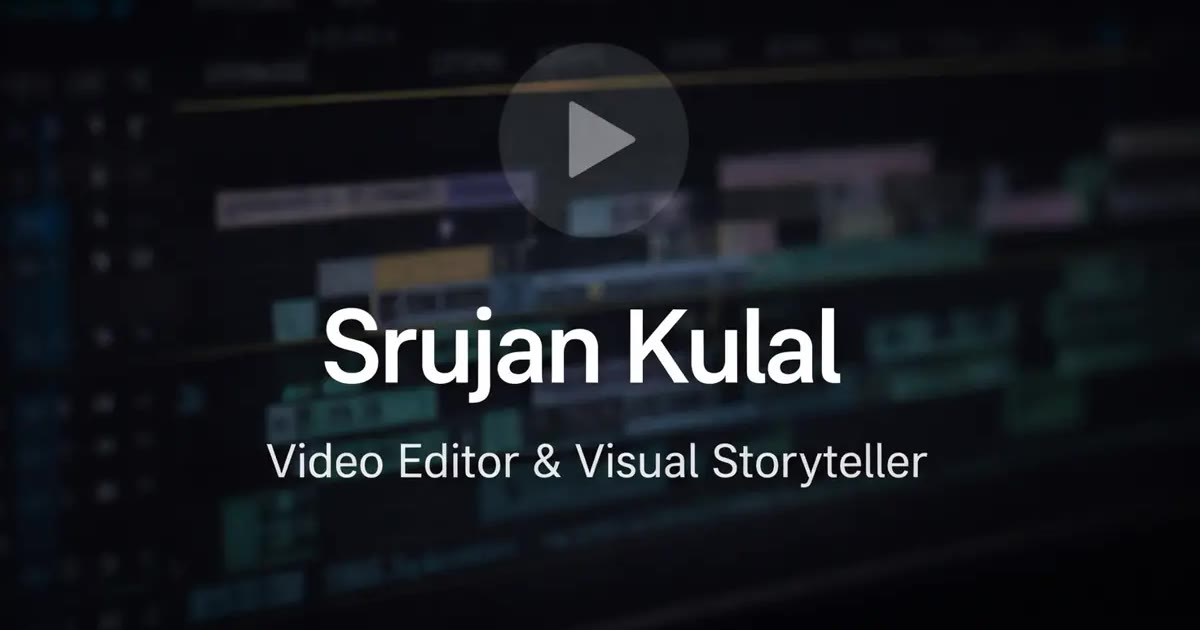
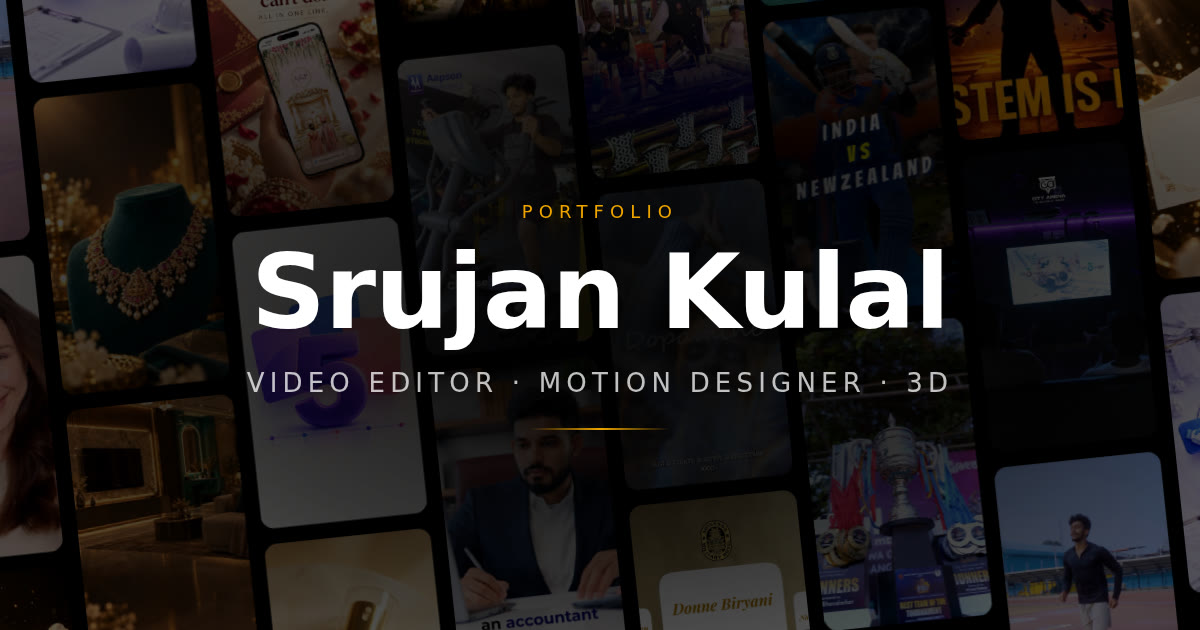
Refresh link-preview image with the new title
New 1200x630 preview in the same style as the hero: drifting portfolio
thumbnails behind the name, with "Video Editor · Motion Designer · 3D".
The image URL gets ?v=2 so WhatsApp, LinkedIn and others fetch the new
image instead of a cached copy.

Claude-Session: https://claude.ai/code/session_01HZXfU5NF8QpcKynUtTYvyP

diff --git a/index.html b/index.html
@@ -12,8 +12,8 @@
 <meta property="og:type" content="website" />
 <meta property="og:url" content="https://srujanportfolio.pixora24.com/" />
 
-<meta property="og:image" content="https://srujanportfolio.pixora24.com/assets/preview.jpg" />
-<meta property="og:image:secure_url" content="https://srujanportfolio.pixora24.com/assets/preview.jpg" />
+<meta property="og:image" content="https://srujanportfolio.pixora24.com/assets/preview.jpg?v=2" />
+<meta property="og:image:secure_url" content="https://srujanportfolio.pixora24.com/assets/preview.jpg?v=2" />
 <meta property="og:image:width" content="1200" />
 <meta property="og:image:height" content="630" />
 <meta property="og:image:type" content="image/jpeg" />
@@ -21,7 +21,7 @@
 <meta name="twitter:card" content="summary_large_image" />
 <meta name="twitter:title" content="Srujan Kulal — Video Editor &amp; Motion Designer" />
 <meta name="twitter:description" content="Ad edits, social media reels, motion graphics, 3D animation and cinematic highlights." />
-<meta name="twitter:image" content="https://srujanportfolio.pixora24.com/assets/preview.jpg" />
+<meta name="twitter:image" content="https://srujanportfolio.pixora24.com/assets/preview.jpg?v=2" />
 
 <link rel="stylesheet" href="style.css" />
 </head>
